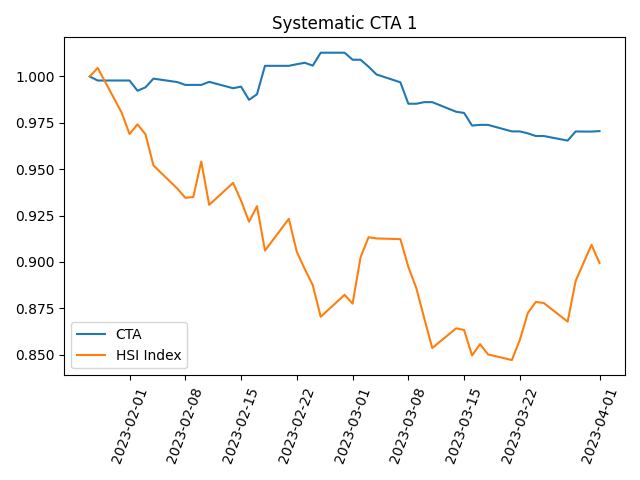
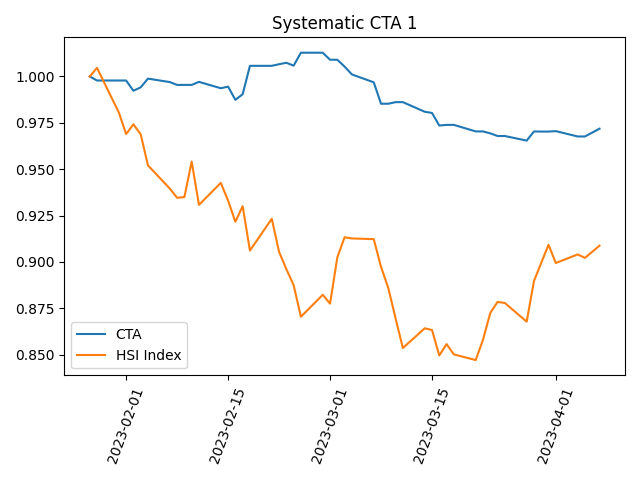
Add trades Apr 3 - Apr 9

diff --git a/_posts/2023-01-29-2023-trades.md b/_posts/2023-01-29-2023-trades.md
@@ -12,6 +12,116 @@ hidden: true
 ## Equity Curve (Live Trading)
 ![Markdown Image][1]
 
+## Apr 3 (Mon) - Apr 9 (Sun)
+<table border="1" class="dataframe">
+  <thead>
+    <tr style="text-align: right;">
+      <th></th>
+      <th>metrics</th>
+    </tr>
+  </thead>
+  <tbody>
+    <tr>
+      <th>start_date</th>
+      <td>2023-04-04</td>
+    </tr>
+    <tr>
+      <th>end_date</th>
+      <td>2023-04-07</td>
+    </tr>
+    <tr>
+      <th>num_calendar_days</th>
+      <td>3</td>
+    </tr>
+    <tr>
+      <th>num_trade_days</th>
+      <td>3</td>
+    </tr>
+    <tr>
+      <th>num_trades</th>
+      <td>3</td>
+    </tr>
+    <tr>
+      <th>win_ratio</th>
+      <td>0.00%</td>
+    </tr>
+    <tr>
+      <th>pnl_per_trade</th>
+      <td>-870.00</td>
+    </tr>
+    <tr>
+      <th>max_pnl_trade</th>
+      <td>-510.00</td>
+    </tr>
+    <tr>
+      <th>min_pnl_trade</th>
+      <td>-1500.00</td>
+    </tr>
+    <tr>
+      <th>pct_pnl_per_trade</th>
+      <td>-0.20%</td>
+    </tr>
+    <tr>
+      <th>max_pct_pnl_trade</th>
+      <td>-0.08%</td>
+    </tr>
+    <tr>
+      <th>min_pct_pnl_trade</th>
+      <td>-0.43%</td>
+    </tr>
+    <tr>
+      <th>avg_holding_period</th>
+      <td>39.71</td>
+    </tr>
+  </tbody>
+</table>
+
+<table border="1" class="dataframe">
+  <thead>
+    <tr style="text-align: right;">
+      <th>datetime</th>
+      <th>strategy_portfolio_value</th>
+      <th>actions</th>
+    </tr>
+  </thead>
+  <tbody>
+    <tr>
+      <td>2023-04-03 21:32:15</td>
+      <td>0.97023</td>
+      <td>[{'no': 1, 'sec': 'HK.MHImain', 'qty': 3, 'side': 'LONG', 'close': 20496.0, 'offset': 'OPEN'}]</td>
+    </tr>
+    <tr>
+      <td>2023-04-03 22:02:17</td>
+      <td>0.97192</td>
+      <td>[{'no': 1, 'sec': 'HK.HHImain', 'qty': 1, 'side': 'LONG', 'close': 6981.0, 'offset': 'OPEN'}]</td>
+    </tr>
+    <tr>
+      <td>2023-04-03 22:39:19</td>
+      <td>0.96879</td>
+      <td>[{'no': 1, 'sec': 'HK.MHImain', 'qty': 3, 'side': 'SHORT', 'close': 20479.0, 'offset': 'CLOSE'}]</td>
+    </tr>
+    <tr>
+      <td>2023-04-03 22:42:19</td>
+      <td>0.96829</td>
+      <td>[{'no': 1, 'sec': 'HK.HHImain', 'qty': 1, 'side': 'SHORT', 'close': 6951.0, 'offset': 'CLOSE'}]</td>
+    </tr>
+    <tr>
+      <td>2023-04-03 22:47:19</td>
+      <td>0.96827</td>
+      <td>[{'no': 1, 'sec': 'HK.MHImain', 'qty': 3, 'side': 'LONG', 'close': 20457.0, 'offset': 'OPEN'}]</td>
+    </tr>
+    <tr>
+      <td>2023-04-03 22:59:20</td>
+      <td>0.96764</td>
+      <td>[{'no': 1, 'sec': 'HK.MHImain', 'qty': 3, 'side': 'SHORT', 'close': 20437.0, 'offset': 'CLOSE'}]</td>
+    </tr>
+    <tr>
+      <td>2023-04-06 23:31:42</td>
+      <td>0.96763</td>
+      <td>[{'no': 1, 'sec': 'HK.MHImain', 'qty': 3, 'side': 'LONG', 'close': 20429.0, 'offset': 'OPEN'}]</td>
+    </tr>
+  </tbody>
+</table>
 ## Mar 27 (Mon) - Apr 2 (Sun)
 <table border="1" class="dataframe">
   <thead>
